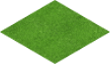
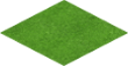
new size of images & isometric. Using Kenney assets.

diff --git a/Town.py b/Town.py
@@ -4,10 +4,16 @@ from PyQt5.QtGui import QPainter, QPen
 from resources_manager import getImage
 
 
+ISOMETRIC_WIDTH = 64
+ISOMETRIC_HEIGHT1 = 66
+ISOMETRIC_HEIGHT2 = 79
+
+
 def isometric(x: float, y: float) -> QPointF:
-    # (iso_x + iso_y) * 32 = x
-    # (iso_x - iso_y) * 55 = y
-    return QPointF(((y / 32) + (x / 55)), ((y / 32) - (x / 55))) / 2
+    # (iso_x + iso_y) * (ISOMETRIC_HEIGHT1 / 2) = x
+    # (iso_x - iso_y) * ISOMETRIC_WIDTH = y
+    return QPointF(((y / (ISOMETRIC_HEIGHT1 / 2)) + (x / ISOMETRIC_WIDTH)),
+                   ((y / (ISOMETRIC_HEIGHT1 / 2)) - (x / ISOMETRIC_WIDTH))) / 2
 
 
 class Block:
@@ -15,14 +21,15 @@ class Block:
         self.sides = {i: getImage(f'{name}{i}') for i in range(0, 360, 90)}
 
     def draw(self, x: float, y: float, angle: int, painter: QPainter) -> None:
-        painter.drawImage(x - 55, y - 64, self.sides[angle])
+        painter.drawImage(x - ISOMETRIC_WIDTH, y -
+                          ISOMETRIC_HEIGHT2, self.sides[angle])
 
 
 class BlocksManager:
     """Store all blocks.
         Use Blocks.block_name to get Block(block_name)."""
 
-    blocks = {name: Block(name) for name in ('block', )}
+    blocks = {name: Block(name) for name in ('home', 'block')}
 
     def __getattr__(self, item):
         if item in self.blocks:
@@ -38,7 +45,7 @@ class Ground:
         self.image = getImage(name)
 
     def draw(self, x: float, y: float, painter: QPainter) -> None:
-        painter.drawImage(x - 55, y, self.image)
+        painter.drawImage(x - ISOMETRIC_WIDTH, y, self.image)
 
 
 class GroundsManager:
@@ -72,8 +79,8 @@ class Chunk:
         # Draw all grounds.
         for i in range(16):
             for j in range(16):
-                self.grounds[i][j].draw((self.x + i - self.y - j) * 55 - x,
-                                        (self.x + self.y + i + j) * 32 - y, painter)
+                self.grounds[i][j].draw((self.x + i - self.y - j) * ISOMETRIC_WIDTH - x,
+                                        (self.x + self.y + i + j) * (ISOMETRIC_HEIGHT1 / 2) - y, painter)
 
         # Draw all blocks in chunk sorted by x, y, z
         for i in range(16):
@@ -83,8 +90,11 @@ class Chunk:
                     if building is not None:
                         block, angle = building.getBlock(i + self.x,
                                                          j + self.y, z)
-                        block.draw((self.x + i - self.y - j) * 55 - x,
-                                   (self.x + self.y + i + j) * 32 - z * 64 - y, angle, painter)
+                        block.draw((self.x + i - self.y - j) * ISOMETRIC_WIDTH - x,
+                                   (self.x + self.y + i + j) *
+                                   (ISOMETRIC_HEIGHT1 / 2) -
+                                   z * ISOMETRIC_HEIGHT2 - y,
+                                   angle, painter)
 
 
 class TownObjectType:
@@ -110,9 +120,9 @@ class BuildingType:
 
 class BuildingTypeManager:
 
-    building_types = {'building_type1': BuildingType((((Blocks.block,),),)),
+    building_types = {'building_type1': BuildingType((((Blocks.home,),),)),
                       'building_type2': BuildingType(
-        (((Blocks.block, Blocks.block), (Blocks.block,)),)
+        (((Blocks.home, Blocks.home), (Blocks.home,)),)
     )
     }
 
@@ -212,10 +222,10 @@ class ProjectedBuilding:
                 for block_z in range(len(self.blocks[block_x][block_y])):
                     block = self.blocks[block_x][block_y][block_z]
                     if block is not None:
-                        block.draw((iso_x + block_x - block_y - iso_y) * 55 - self.town.cam_x +
+                        block.draw((iso_x + block_x - block_y - iso_y) * ISOMETRIC_WIDTH - self.town.cam_x +
                                    self.town.cam_z * screen_size.width() / 2,
-                                   (iso_x + iso_y + block_x + block_y) * 32 - self.town.cam_y -
-                                   block_z * 64 + screen_size.height() * self.town.cam_z / 2,
+                                   (iso_x + iso_y + block_x + block_y) * (ISOMETRIC_HEIGHT1 / 2) - self.town.cam_y -
+                                   block_z * ISOMETRIC_HEIGHT2 + screen_size.height() * self.town.cam_z / 2,
                                    self._angle, painter)
 
     def getAngle(self):
@@ -263,8 +273,8 @@ class Town:
         painter.scale(self.scale, self.scale)
         for chunks in self.chunks:
             for chunk in chunks:
-                if -880 < ((chunk.x - chunk.y) * 55 - x) < size.width() * self.cam_z + 880 and \
-                   -1024 < ((chunk.x + chunk.y) * 32 - y) < size.height() * self.cam_z:
+                if -880 < ((chunk.x - chunk.y) * ISOMETRIC_WIDTH - x) < size.width() * self.cam_z + 880 and \
+                   -1024 < ((chunk.x + chunk.y) * (ISOMETRIC_HEIGHT1 / 2) - y) < size.height() * self.cam_z:
                     chunk.draw(painter, x, y)
         painter.scale(self.cam_z, self.cam_z)
 

diff --git a/main.py b/main.py
@@ -8,6 +8,7 @@ from PyQt5.QtGui import (QCloseEvent, QIcon, QImage, QKeyEvent, QMouseEvent,
 from PyQt5.QtWidgets import QApplication, QMainWindow
 
 import Town
+
 from resources_manager import getImage
 
 
@@ -56,6 +57,15 @@ class Frame(QMainWindow):
         self.choosen_btype = 0
         self.mode = Modes.Town
 
+    def buildProjectedBuilding(self):
+        if self.town.isBlocksEmpty(
+                round(self.choosen_building.isometric.x()),
+                round(self.choosen_building.isometric.y()),
+                self.choosen_building.blocks):
+            self.choosen_building.build()
+            self.choosen_building = None
+            self.mode = Modes.Town
+
     def setSize(self, size: QSize) -> None:
         self.resize(size.width(), size.height())
 
@@ -78,6 +88,10 @@ class Frame(QMainWindow):
         self.last_pos = event.pos()
 
     def mouseReleaseEvent(self, event: QMouseEvent) -> None:
+        if event.button() == Qt.LeftButton:
+            if self.mode == Modes.TownBuilder:
+                self.buildProjectedBuilding()
+
         self.last_button = Qt.NoButton
 
     def keyReleaseEvent(self, event: QKeyEvent) -> None:
@@ -86,13 +100,7 @@ class Frame(QMainWindow):
         # Enter...
         if event_key == Qt.Key_Enter - 1:
             if self.mode == Modes.TownBuilder:
-                if self.town.isBlocksEmpty(
-                        round(self.choosen_building.isometric.x()),
-                        round(self.choosen_building.isometric.y()),
-                        self.choosen_building.blocks):
-                    self.choosen_building.build()
-                    self.choosen_building = None
-                    self.mode = Modes.Town
+                self.buildProjectedBuilding()
 
         if event_key == Qt.Key_B:
             self.mode = Modes.TownBuilder
@@ -116,11 +124,11 @@ class Frame(QMainWindow):
 
         if event_key == Qt.Key_Right:
             if self.mode == Modes.TownBuilder:
-                self.choosen_building.turn(-90)
+                self.choosen_building.turn(90)
 
         if event_key == Qt.Key_Left:
             if self.mode == Modes.TownBuilder:
-                self.choosen_building.turn(90)
+                self.choosen_building.turn(-90)
 
         if event_key == Qt.Key_Escape:
             if self.mode == Modes.TownBuilder:
